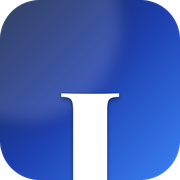
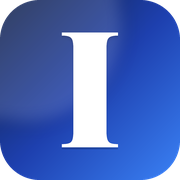
auto-commit for 7d5e14b1-8640-48b5-8bab-8e1af3a5ad82

Changed region(s): [[0.3333, 0.1667, 0.6667, 1.0]]

diff --git a/frontend/public/index.html b/frontend/public/index.html
@@ -5,15 +5,15 @@
         <meta name="viewport" content="width=device-width, initial-scale=1" />
         <meta name="theme-color" content="#0A192F" />
         <meta name="description" content="Infotron Solutions - Enterprise IT Services & Talent Solutions" />
-        <link rel="icon" href="%PUBLIC_URL%/favicon.ico?v=6" sizes="any" />
-        <link rel="icon" type="image/png" sizes="16x16" href="%PUBLIC_URL%/favicon-16x16.png?v=6" />
-        <link rel="icon" type="image/png" sizes="32x32" href="%PUBLIC_URL%/favicon-32x32.png?v=6" />
-        <link rel="icon" type="image/png" sizes="48x48" href="%PUBLIC_URL%/favicon-48x48.png?v=6" />
-        <link rel="icon" type="image/png" sizes="96x96" href="%PUBLIC_URL%/favicon-96x96.png?v=6" />
-        <link rel="icon" type="image/png" sizes="192x192" href="%PUBLIC_URL%/favicon-192x192.png?v=6" />
-        <link rel="icon" type="image/png" sizes="512x512" href="%PUBLIC_URL%/favicon-512x512.png?v=6" />
-        <link rel="shortcut icon" href="%PUBLIC_URL%/favicon.ico?v=6" />
-        <link rel="apple-touch-icon" sizes="180x180" href="%PUBLIC_URL%/apple-touch-icon.png?v=6" />
+        <link rel="icon" href="%PUBLIC_URL%/favicon.ico?v=7" sizes="any" />
+        <link rel="icon" type="image/png" sizes="16x16" href="%PUBLIC_URL%/favicon-16x16.png?v=7" />
+        <link rel="icon" type="image/png" sizes="32x32" href="%PUBLIC_URL%/favicon-32x32.png?v=7" />
+        <link rel="icon" type="image/png" sizes="48x48" href="%PUBLIC_URL%/favicon-48x48.png?v=7" />
+        <link rel="icon" type="image/png" sizes="96x96" href="%PUBLIC_URL%/favicon-96x96.png?v=7" />
+        <link rel="icon" type="image/png" sizes="192x192" href="%PUBLIC_URL%/favicon-192x192.png?v=7" />
+        <link rel="icon" type="image/png" sizes="512x512" href="%PUBLIC_URL%/favicon-512x512.png?v=7" />
+        <link rel="shortcut icon" href="%PUBLIC_URL%/favicon.ico?v=7" />
+        <link rel="apple-touch-icon" sizes="180x180" href="%PUBLIC_URL%/apple-touch-icon.png?v=7" />
         <link rel="manifest" href="%PUBLIC_URL%/manifest.json" />
         <link rel="preconnect" href="https://fonts.googleapis.com" />
         <link rel="preconnect" href="https://fonts.gstatic.com" crossorigin />
